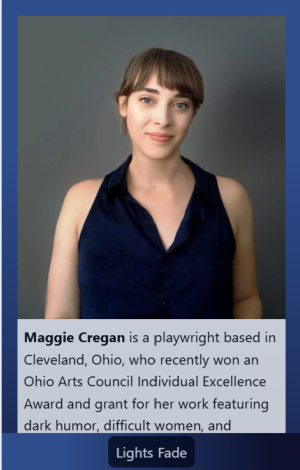
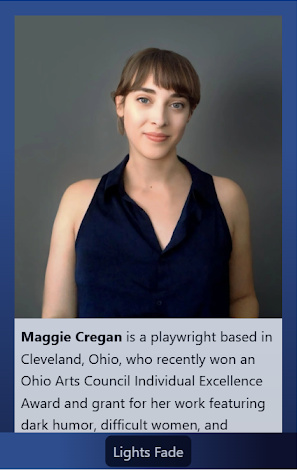
added template sites

diff --git a/src/components/Home.js b/src/components/Home.js
@@ -12,6 +12,10 @@ export function Home(props) {
         <ProjectOverview projectTitle="Trunk of My Car" projectDescription="A proof multi-vendor marketplace WooCommerce site for authors and book lovers" fullscreen={`${process.env.PUBLIC_URL}/img/tomcMainFull.jpg`} fullscreen_alt="a screenshot on a desktop view of a book lovers' marketplace" smallscreen={`${process.env.PUBLIC_URL}/img/tomcMainSmall.jpg`} smallscreen_alt="a screenshot on a mobile screen of a book lovers' marketplace store page" link_destination="https://github.com/Joannamcregan/ebookMarketplace" link_text="view custom theme code" />
         <ProjectOverview projectTitle="Maggie Cregan Personal Site" projectDescription="A personal site for an up-and-coming playwright" fullscreen={`${process.env.PUBLIC_URL}/img/maggieMainFull.jpg`} fullscreen_alt="a screenshot on a desktop view of a playwright's personal site, featuring a photo and text" smallscreen={`${process.env.PUBLIC_URL}/img/maggieMainSmall.jpg`} smallscreen_alt="a screenshot on a mobile screen of a playwright's personal site, featuring a photo and text" link_destination="https://maggiecregan.com/" link_text="visit site" />
         <ProjectOverview projectTitle="McGee Waterproofing" projectDescription="An eye-catching site for a local waterproofing company" fullscreen={`${process.env.PUBLIC_URL}/img/mwMainFull.jpg`} fullscreen_alt="a screenshot on a desktop view of a waterproofing company website" smallscreen={`${process.env.PUBLIC_URL}/img/mwMainSmall.jpg`} smallscreen_alt="a screenshot on a mobile screen of a waterproofing company website" link_destination="https://mcgeewaterproofing.com/" link_text="visit site" />
+        <ProjectOverview projectTitle="Dreamy Gradient" projectDescription="A template for a static brochure site" fullscreen={`${process.env.PUBLIC_URL}/img/dreamyMainFull.jpg`} fullscreen_alt="a screenshot on a desktop view of a static brochure site" smallscreen={`${process.env.PUBLIC_URL}/img/dreamyMainSmall.jpg`} smallscreen_alt="a screenshot on a mobile screen of a static brochure site" link_destination="https://joannamcregan.github.io/dreamy-gradient-template/" link_text="visit site" />
+        <ProjectOverview projectTitle="Stylish Drip" projectDescription="A template for a static brochure site" fullscreen={`${process.env.PUBLIC_URL}/img/curvesMainFull.jpg`} fullscreen_alt="a screenshot on a desktop view of a static brochure site" smallscreen={`${process.env.PUBLIC_URL}/img/curvesMainSmall.jpg`} smallscreen_alt="a screenshot on a mobile screen of a static brochure site" link_destination="https://joannamcregan.github.io/modern-curves-template/" link_text="visit site" />
+        <ProjectOverview projectTitle="Bold Geometry" projectDescription="A template for a static brochure site" fullscreen={`${process.env.PUBLIC_URL}/img/boldMainFull.jpg`} fullscreen_alt="a screenshot on a desktop view of a static brochure site" smallscreen={`${process.env.PUBLIC_URL}/img/boldMainSmall.jpg`} smallscreen_alt="a screenshot on a mobile screen of a static brochure site" link_destination="https://joannamcregan.github.io/bold-geometric-template/" link_text="visit site" />
+        <ProjectOverview projectTitle="Clean Sweep" projectDescription="A template for a static brochure site" fullscreen={`${process.env.PUBLIC_URL}/img/sweepMainFull.jpg`} fullscreen_alt="a screenshot on a desktop view of a static brochure site" smallscreen={`${process.env.PUBLIC_URL}/img/sweepMainSmall.jpg`} smallscreen_alt="a screenshot on a mobile screen of a static brochure site" link_destination="https://joannamcregan.github.io/clean-sweep/" link_text="visit site" />
     </Page>
     </>
   );

diff --git a/src/App.css b/src/App.css
@@ -1,12 +1,12 @@
 :root {
   --background: rgb(240, 237, 255);
-  --filler-background: rgb(195, 201, 226);
+  --filler-background: rgb(188, 196, 208);
   --text: #1a1a1a;
   --accent: rgb(42, 42, 84);
 }
 [data-theme="dark"] {
   --background: rgb(42, 42, 84);
-  --filler-background: rgb(27, 31, 45);
+  --filler-background: rgb(22, 29, 39);
   --text: #f5f5f5;
   --accent: rgb(230, 229, 244);
 }
@@ -101,7 +101,7 @@ a, a:visited{
 }
 .project-section{
   padding-top: 30px;
-  padding-bottom: 90px;
+  padding-bottom: 120px;
 }
 .project-section a{
   width: 100%;
